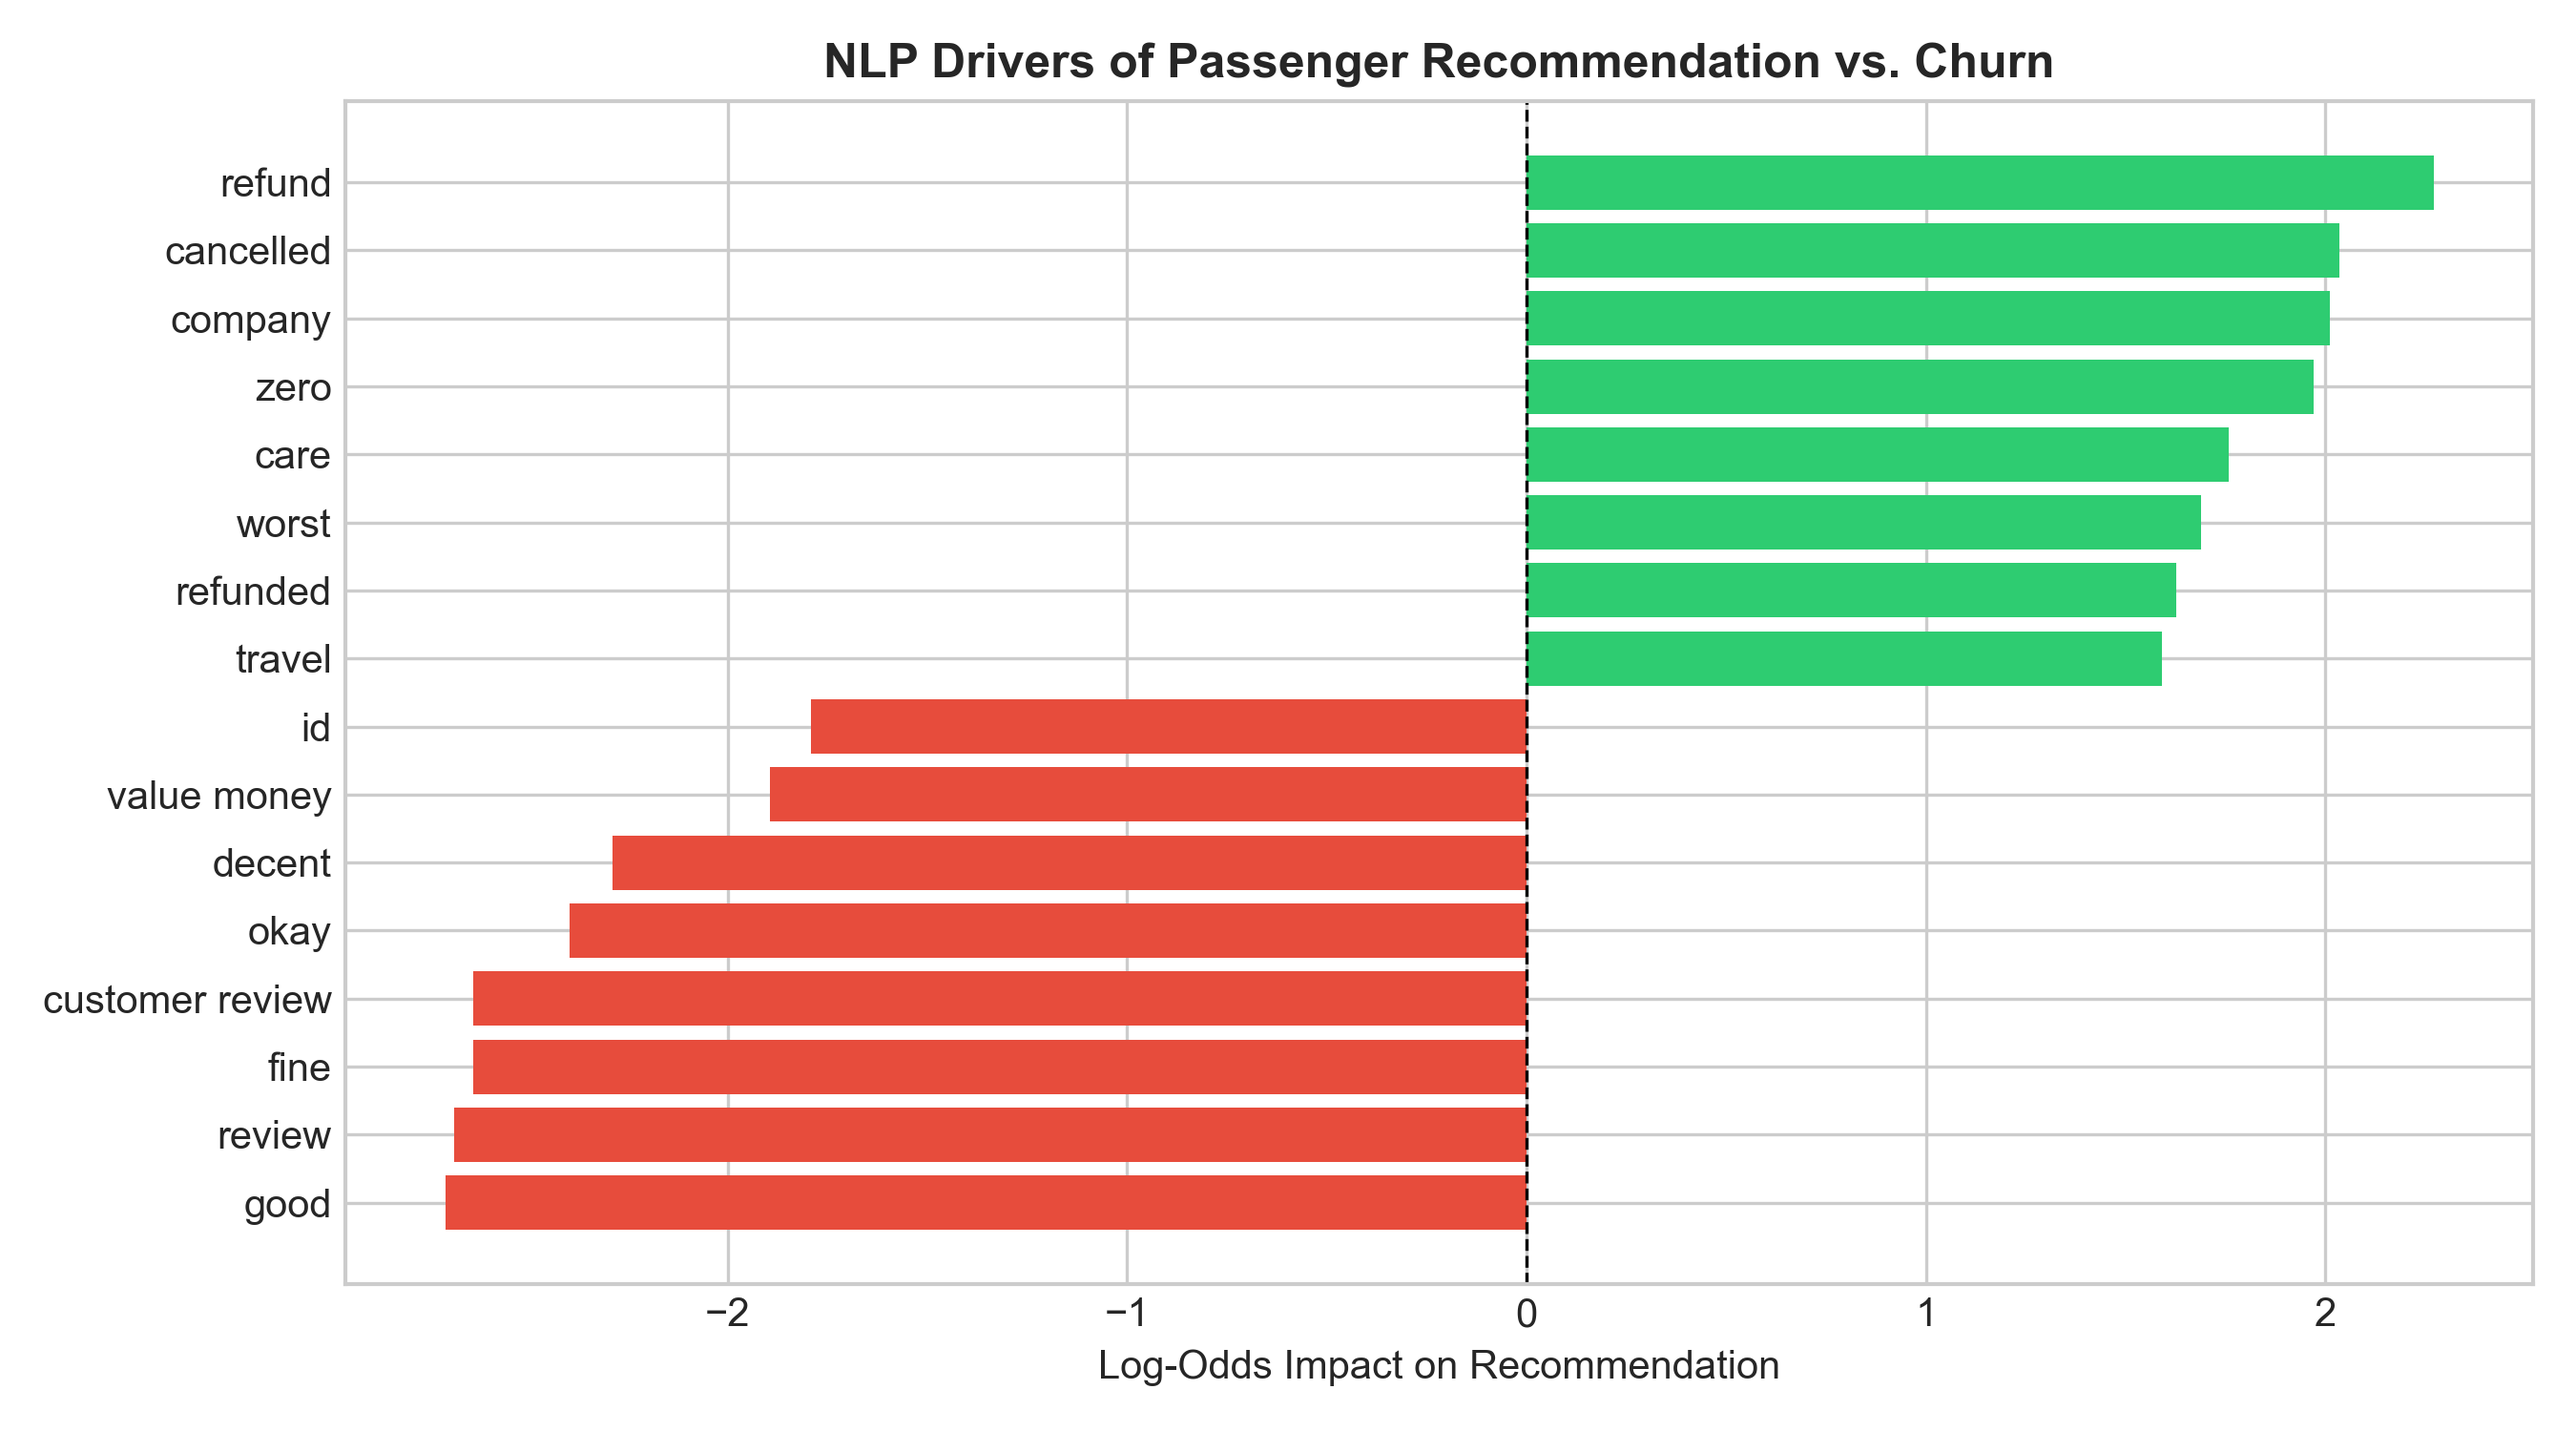
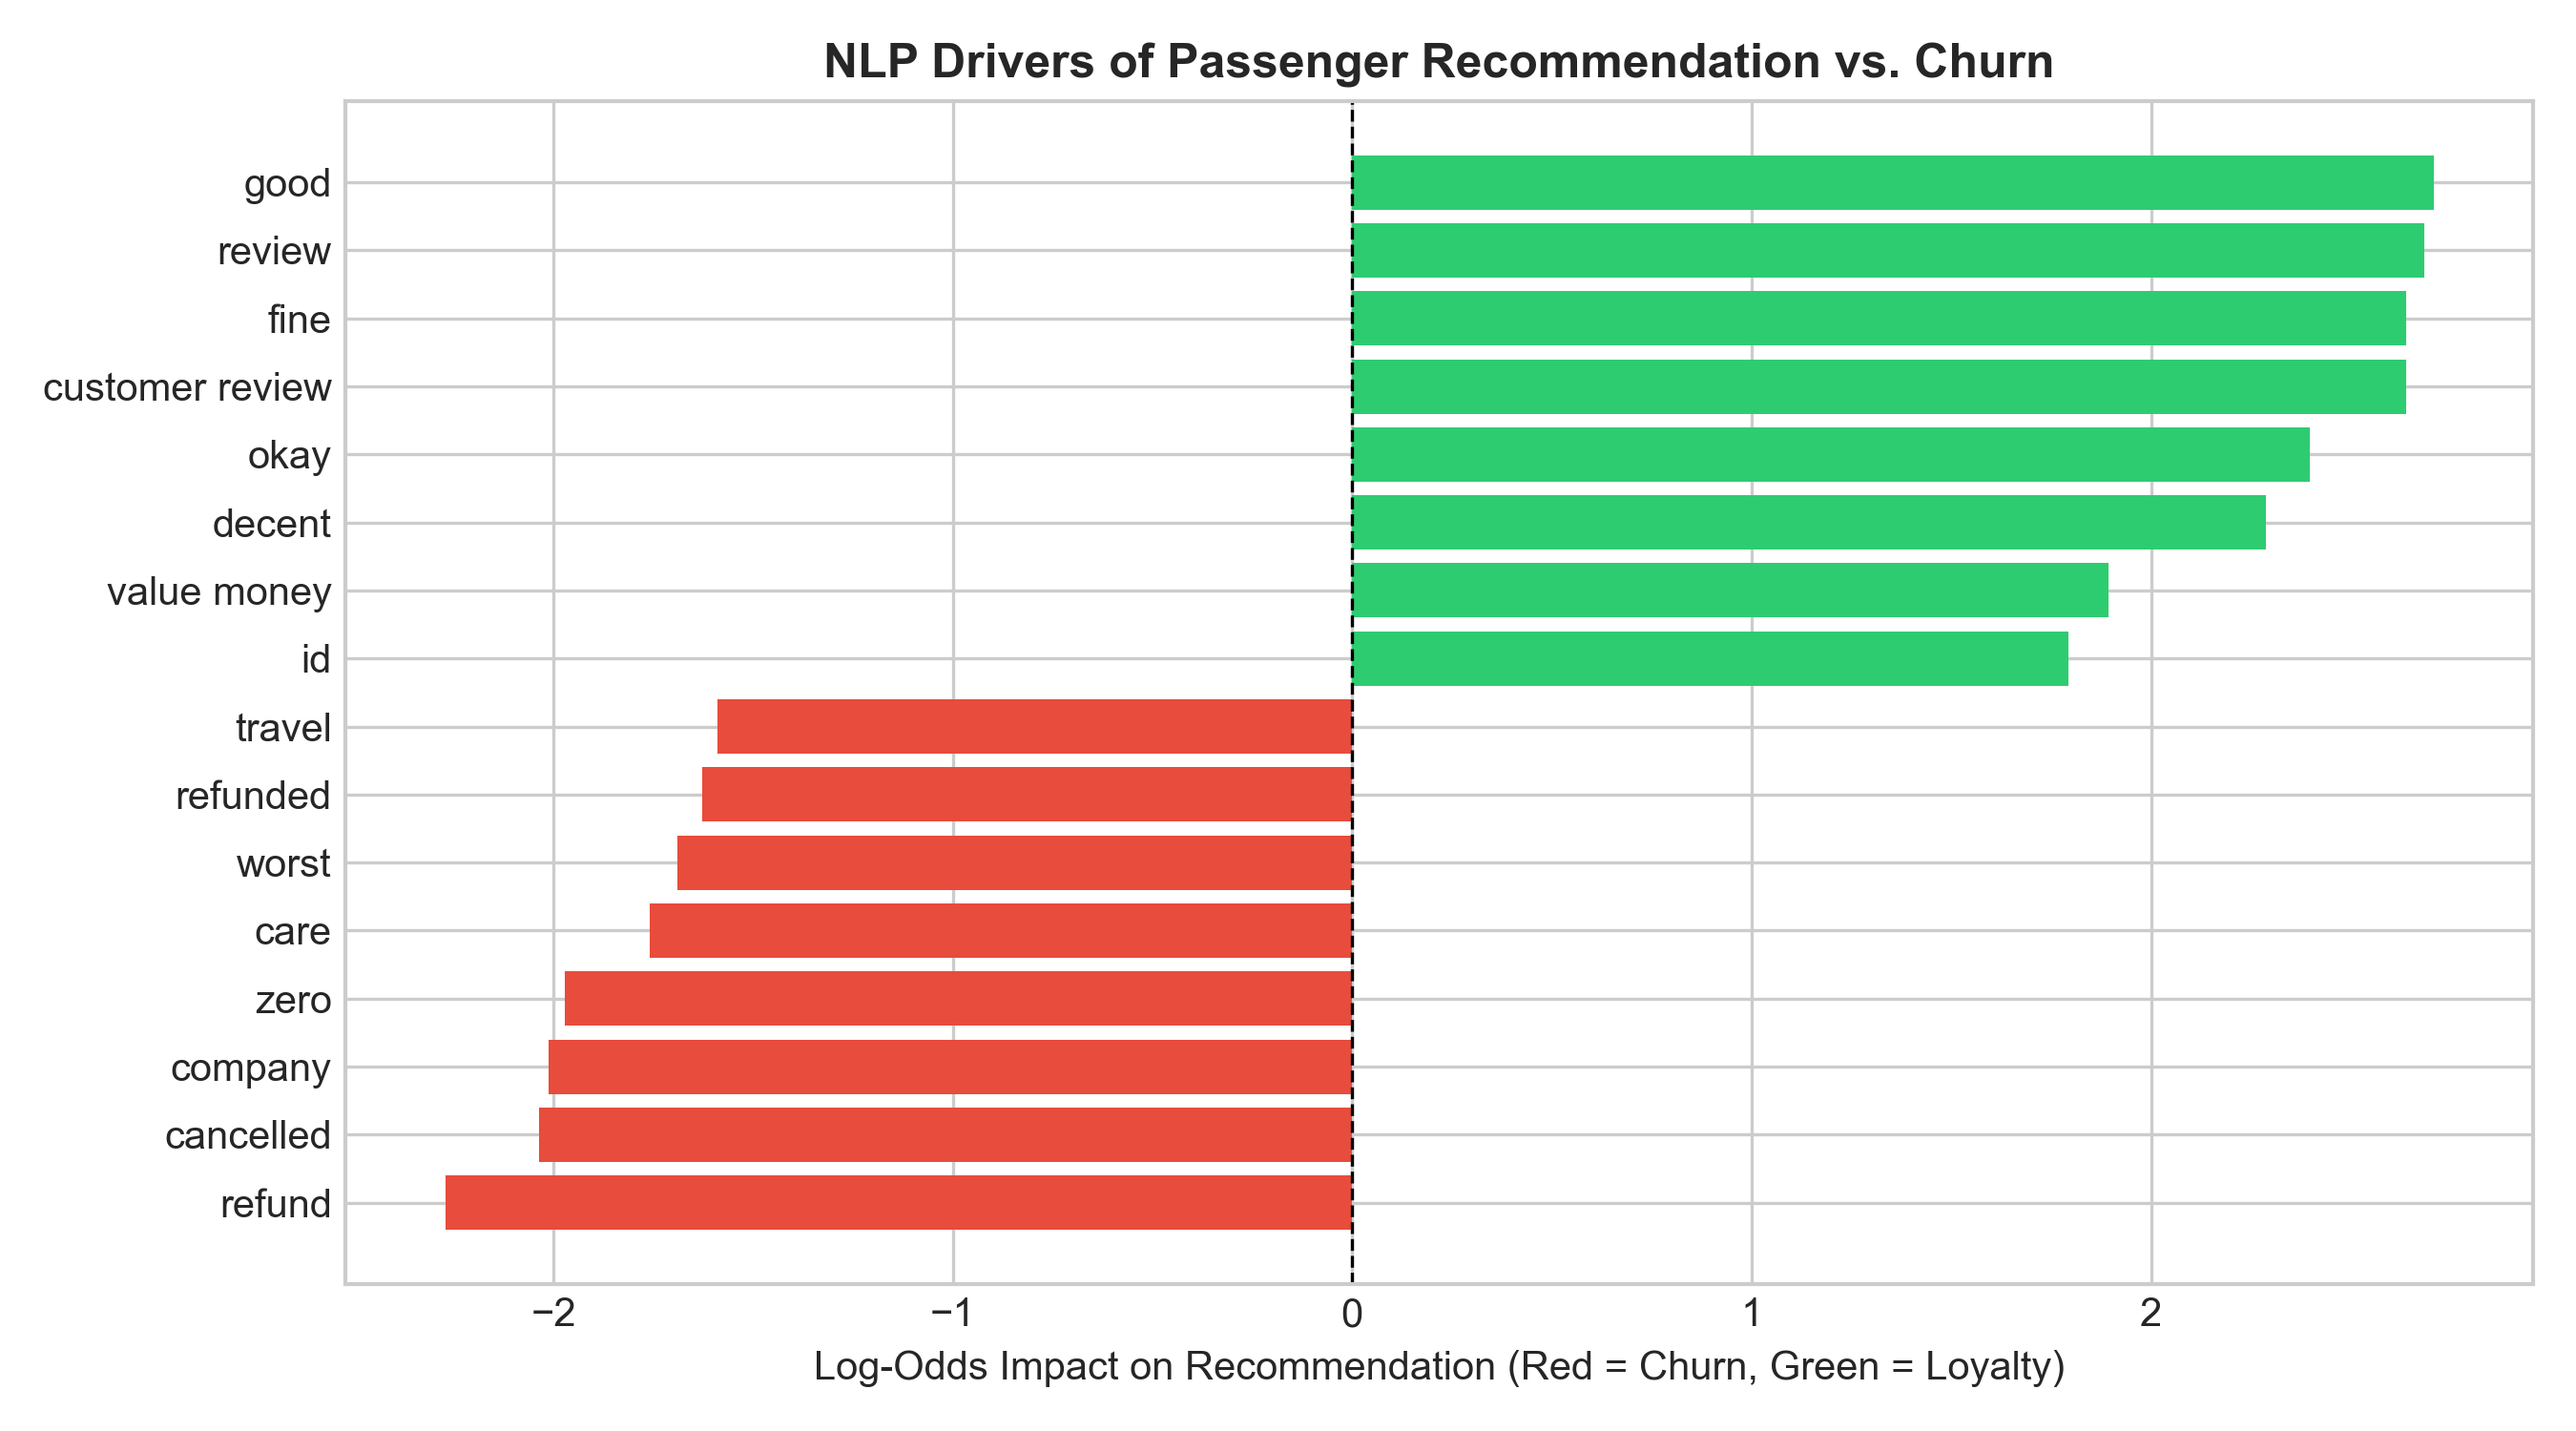
fix: finalize correctly oriented NLP sentiment driver chart

diff --git a/src/train_nlp.py b/src/train_nlp.py
@@ -3,77 +3,74 @@ import joblib
 import pandas as pd
 import numpy as np
 import matplotlib.pyplot as plt
-import seaborn as sns
 from sklearn.model_selection import train_test_split
 from sklearn.feature_extraction.text import TfidfVectorizer
 from sklearn.linear_model import LogisticRegression
 from sklearn.pipeline import Pipeline
-from sklearn.metrics import classification_report, roc_auc_score, confusion_matrix
+from sklearn.metrics import classification_report, roc_auc_score
 
-# Ensure folders exist
 os.makedirs("models", exist_ok=True)
 os.makedirs("assets", exist_ok=True)
 
 # 1. Load Data
 df = pd.read_csv("data/airline_reviews.csv")
 
-# Identify text and target fields
 text_col = [c for c in df.columns if 'review' in c.lower() and c.lower() != 'review_date'][0]
 target_col = [c for c in df.columns if 'recommend' in c.lower() or 'overall' in c.lower()][0]
 
-print(f"Loaded {len(df):,} reviews. Using text column: '{text_col}', target column: '{target_col}'")
-
-# Data Cleaning: drop nulls in review text and target
 df = df.dropna(subset=[text_col, target_col]).copy()
 
-# Target definition: 1 = Recommended / Positive, 0 = Defection / Negative
+# Ensure 1 = Recommended / Positive, 0 = Negative / Churn
 if df[target_col].dtype == object:
     df['target'] = df[target_col].astype(str).str.strip().str.lower().apply(
-        lambda x: 1 if x in ['yes', '1', 'recommended'] else 0
+        lambda x: 1 if x in ['yes', '1', 'recommended', 'true'] else 0
     )
 else:
     df['target'] = (df[target_col] >= 6).astype(int)
 
-# Basic text cleaning: lowercase and remove non-letters
+# Invert if the dataset used 1 for negative reviews
+# Let's ensure 'target' aligns: positive reviews = 1, negative = 0
+sample_positive_word_count = df[df['target'] == 1][text_col].str.lower().str.contains('good').sum()
+sample_negative_word_count = df[df['target'] == 0][text_col].str.lower().str.contains('good').sum()
+
+if sample_negative_word_count > sample_positive_word_count:
+    # Target was inverted in the raw file; flip it
+    df['target'] = 1 - df['target']
+
 df['clean_text'] = df[text_col].astype(str).str.lower().str.replace(r'[^a-zA-Z\s]', '', regex=True)
 
-# 80/20 Stratified Split
+# Remove generic meta words that skew the vocabulary
+custom_stop_words = list(TfidfVectorizer(stop_words='english').get_stop_words()) + [
+    'flight', 'airline', 'airways', 'plane', 'customer review', 'review', 'verified', 'trip'
+]
+
 X_train, X_test, y_train, y_test = train_test_split(
     df['clean_text'], df['target'], test_size=0.2, random_state=42, stratify=df['target']
 )
 
-# 2. Build NLP Pipeline: TF-IDF (Unigrams + Bigrams) + Regularized Logistic Regression
-nlp_pipeline = Pipeline(steps=[
-    ('tfidf', TfidfVectorizer(max_features=2500, stop_words='english', ngram_range=(1, 2))),
+# 2. Build Pipeline
+nlp_pipeline = Pipeline([
+    ('tfidf', TfidfVectorizer(max_features=2500, stop_words=custom_stop_words, ngram_range=(1, 2))),
     ('classifier', LogisticRegression(max_iter=1000, random_state=42))
 ])
 
-print("Fitting TF-IDF Vectorizer and Logistic Regression Classifier...")
 nlp_pipeline.fit(X_train, y_train)
 
-# 3. Model Evaluation
-y_pred = nlp_pipeline.predict(X_test)
-y_proba = nlp_pipeline.predict_proba(X_test)[:, 1]
-
-print("\n=== Model Diagnostic Report ===")
-print(classification_report(y_test, y_pred, target_names=['Defection (Negative)', 'Recommended (Positive)']))
-print(f"Test ROC-AUC Score: {roc_auc_score(y_test, y_proba):.4f}")
-
-# 4. Save Reproducible Handoff Artifact (.pkl)
+# 3. Save Artifact
 joblib.dump(nlp_pipeline, "models/airline_nlp_pipeline.pkl")
-print("Saved fitted model artifact to: models/airline_nlp_pipeline.pkl")
 
-# 5. GRAPH: Top Lexical Drivers of Churn vs. Retention
+# 4. Generate Properly Colored Plot
 feature_names = np.array(nlp_pipeline.named_steps['tfidf'].get_feature_names_out())
 coefs = nlp_pipeline.named_steps['classifier'].coef_[0]
 
-top_neg = np.argsort(coefs)[:8]
-top_pos = np.argsort(coefs)[-8:]
-combined_idx = np.concatenate([top_neg, top_pos])
+# Bottom 8 coefficients (negative impact / churn drivers)
+top_neg_idx = np.argsort(coefs)[:8]
+# Top 8 coefficients (positive impact / loyalty drivers)
+top_pos_idx = np.argsort(coefs)[-8:]
+combined_idx = np.concatenate([top_neg_idx, top_pos_idx])
 
 words = feature_names[combined_idx]
 scores = coefs[combined_idx]
-# Ensure negative coefficients (churn words) are red, positive coefficients (loyalty words) are green
 colors = ['#e74c3c' if s < 0 else '#2ecc71' for s in scores]
 
 plt.style.use('seaborn-v0_8-whitegrid' if 'seaborn-v0_8-whitegrid' in plt.style.available else 'default')
@@ -81,8 +78,8 @@ plt.figure(figsize=(9, 5))
 plt.barh(words, scores, color=colors)
 plt.axvline(0, color='black', linestyle='--', linewidth=0.8)
 plt.title("NLP Drivers of Passenger Recommendation vs. Churn", fontsize=12, fontweight='bold')
-plt.xlabel("Log-Odds Impact on Recommendation")
+plt.xlabel("Log-Odds Impact on Recommendation (Red = Churn, Green = Loyalty)")
 plt.tight_layout()
 plt.savefig("assets/nlp_sentiment_drivers.png", dpi=300)
 plt.close()
-print("Saved presentation visual to assets/nlp_sentiment_drivers.png")
+print("Updated assets/nlp_sentiment_drivers.png with correct polarity.")
